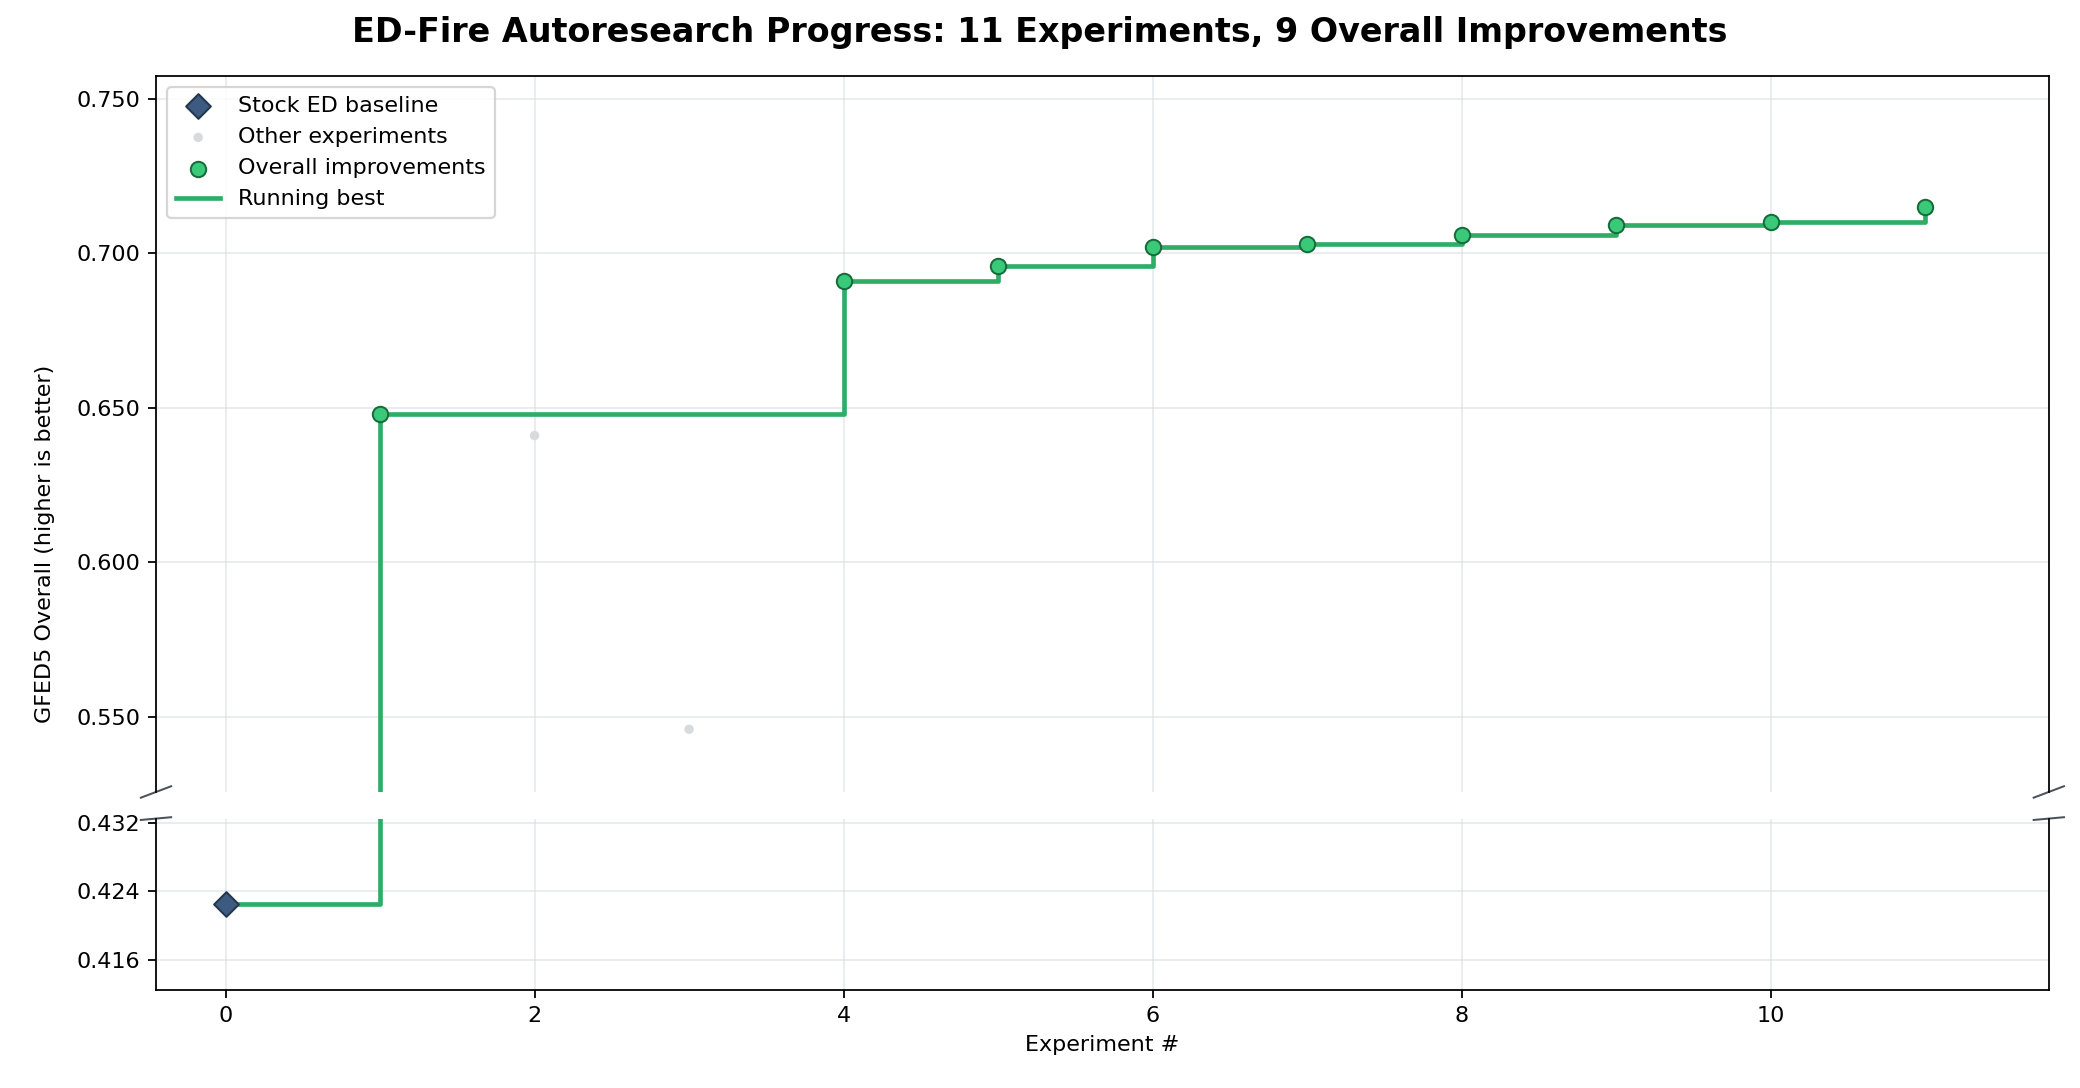
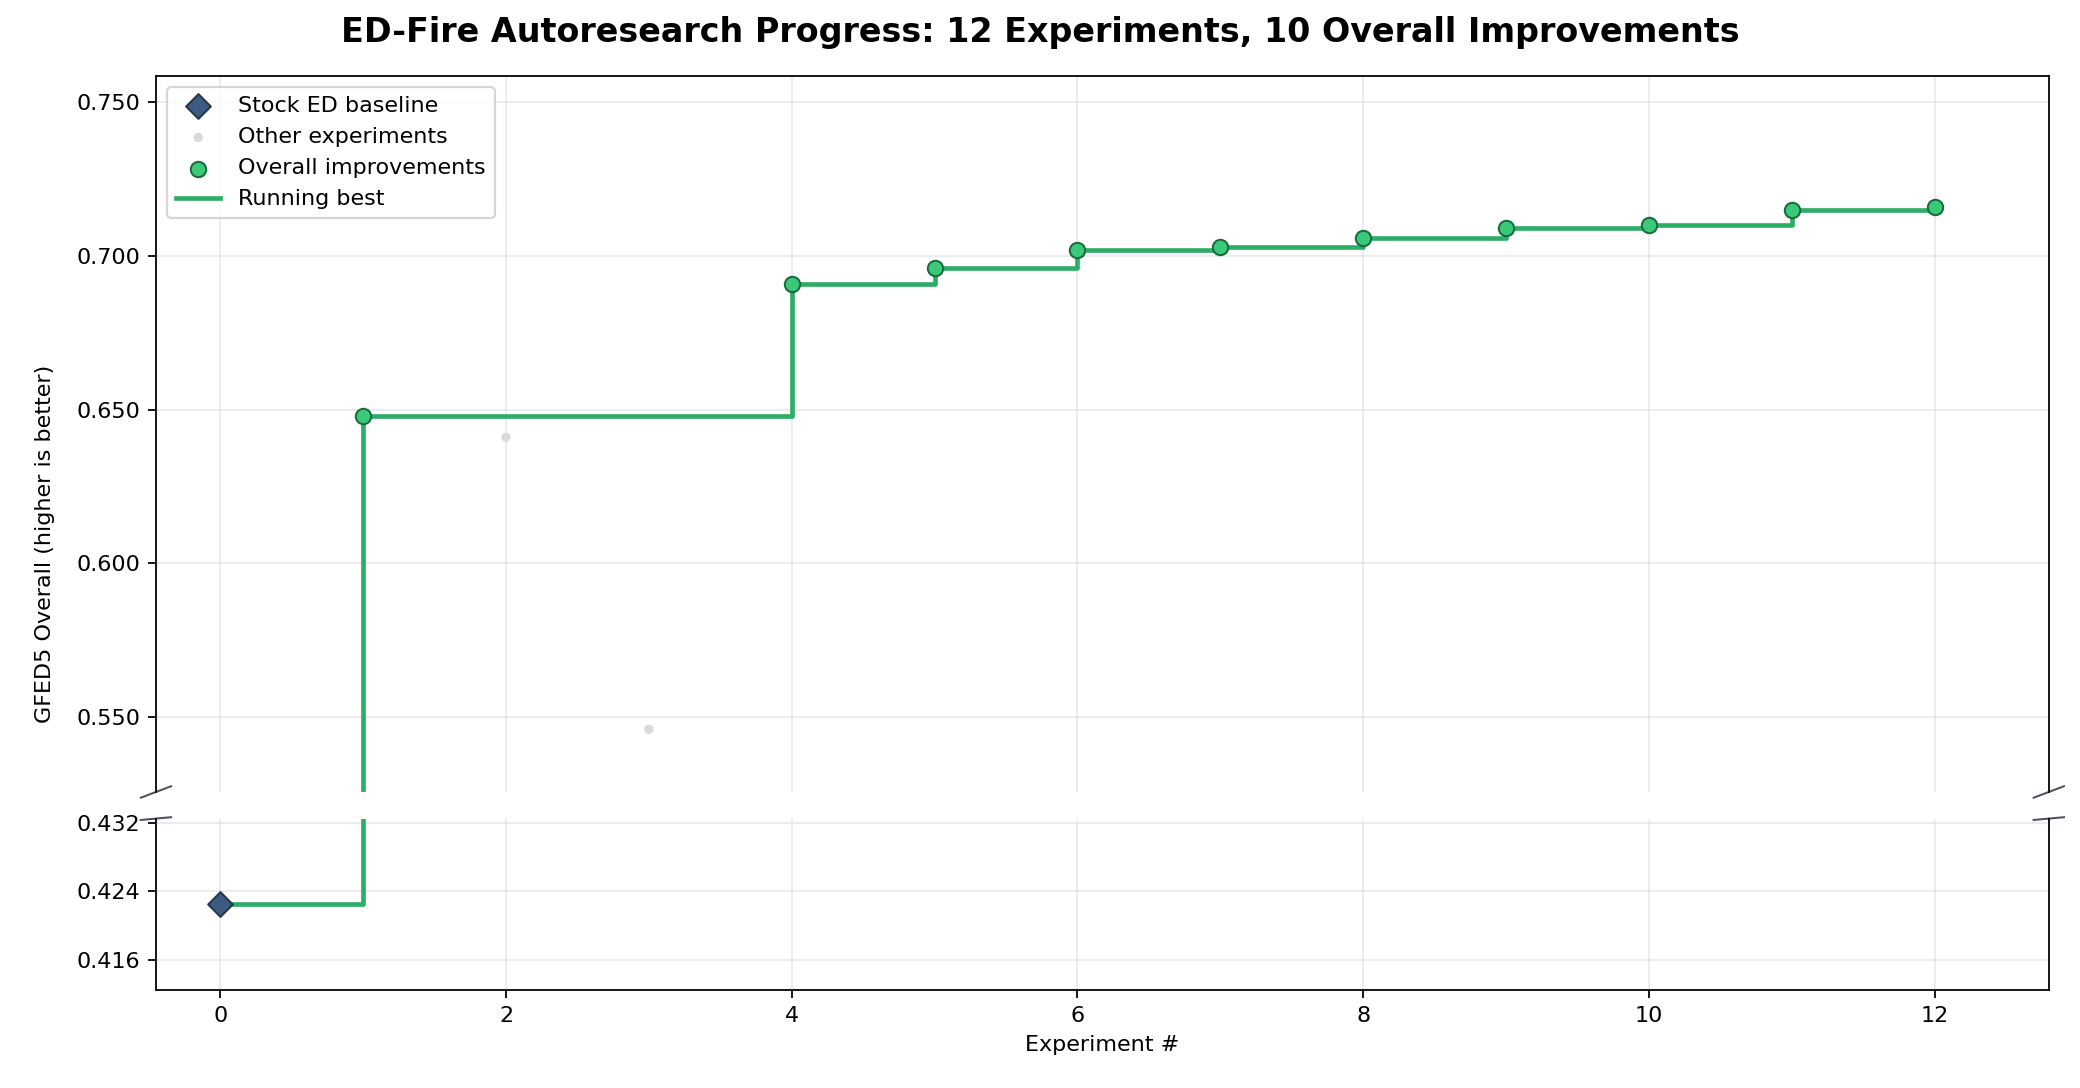
Record official mechanistic score 0.716

diff --git a/autoresearch/scratchpad/thread.md b/autoresearch/scratchpad/thread.md
@@ -4253,3 +4253,31 @@ is recovered. The next structural family must distinguish connected seasonal
 managed burning from fragmented or persistently low-fire human landscapes using
 smooth local land-state, fuel, and recurrence physics rather than regional
 coefficients.
+
+
+### Entry 119: secondary litter and recurrence fragmentation reach official .716
+
+The managed-temperature step justified a focused four-parameter Optuna pass. It
+stopped after 25 trials and raised the exact proxy only from .714603 to .715032,
+again showing that calibration finishes a physical step but does not supply the
+missing structure. The prediction-neutral search-space commit is `374ee06` and the
+tuned globally shared response is `cec613c`.
+
+Two independent finite-state mechanisms then crossed positively. Secondary open
+vegetation now produces rain-supported live fine fuel, transfers senesced material
+into a 12-month litter stock, and releases only its bounded pathway hazard when that
+litter is combustible. Secondary woody vegetation similarly transfers declining
+leaf area into a nine-month canopy-litter stock. This intermediate is committed at
+`d73e899` and raises the exact proxy to .715333. A subsequent smooth brake suppresses
+recurrent fire where crop/urban fragmentation interrupts a managed fuel matrix and
+secondary-open cover is absent. It multiplies incumbent hazard only, increases with
+trailing realized fire, and therefore cannot create fire or deepen a zero-fire lock.
+
+The combined commit `6e00bfa` reaches exact proxy .715545 and evaluates officially
+at **.716** (bias .753, RMSE .546, seasonal .863, spatial .871). Ten of fourteen
+regions improve relative to the tuned temperature base, including TENA, CEAM, MIDE,
+Europe, both South American regions, SEAS, and EQAS. Global area falls from 1.086 to
+1.066 times observed. Temperate closed canopy is 1.017, boreal forest 1.041,
+tropical open woodland .983, productive rangeland .992, cropland .858, and arid low
+fuel 1.317. Morocco improves from 56.0 to 53.7 times observed but remains an explicit
+failure, not a solved guardrail. Prefix causality remains exactly zero.
